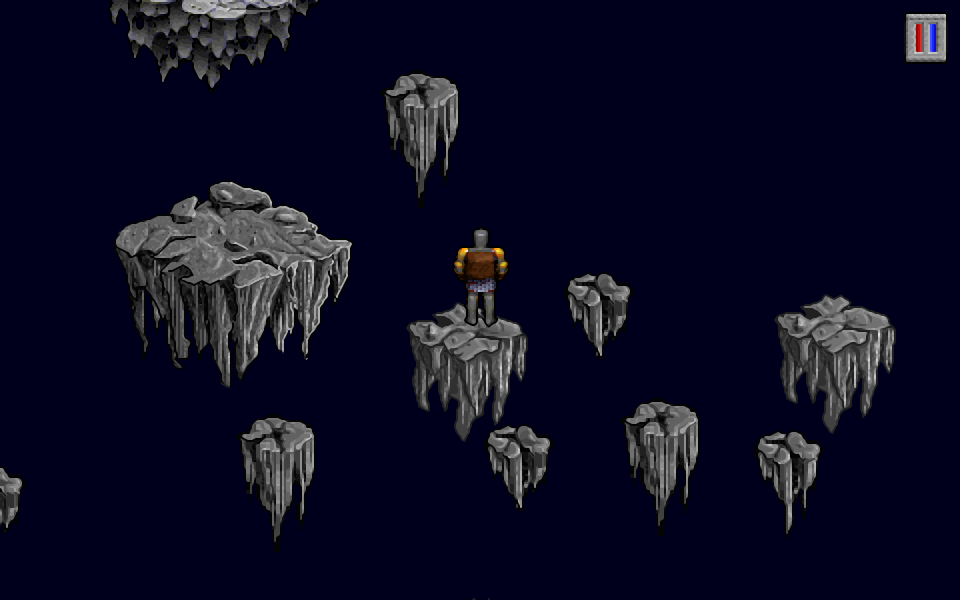
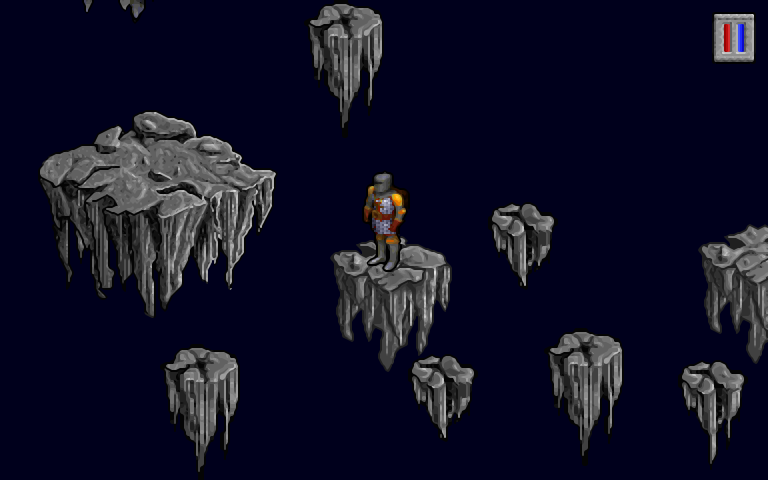
Projektseite: Screenshot mit Ruestung

diff --git a/docs/index.html b/docs/index.html
@@ -165,8 +165,8 @@ footer { text-align: center; color: var(--muted); font-size: .85rem; padding: 10
     <figcaption><span lang="de">Pyros erscheint im Pentagramm</span><span lang="en">Pyros rises from the pentacle</span></figcaption>
   </figure>
   <figure>
-    <img src="stratos.png" width="960" height="600" alt="The Avatar on the floating rocks near Stratos" loading="lazy">
-    <figcaption><span lang="de">Die schwebenden Felsen bei Stratos</span><span lang="en">The floating rocks near Stratos</span></figcaption>
+    <img src="stratos.png" width="768" height="480" alt="The Avatar in armour on the floating rocks near Stratos" loading="lazy">
+    <figcaption><span lang="de">Die schwebenden Felsen bei Stratos, Rüstung und Helm am Avatar sichtbar</span><span lang="en">The floating rocks near Stratos, armour and helmet shown on the Avatar</span></figcaption>
   </figure>
   <figure>
     <img src="inventory.png" width="960" height="600" alt="The better inventory with fixed slots and the potions on keys 1 to 5" loading="lazy">
